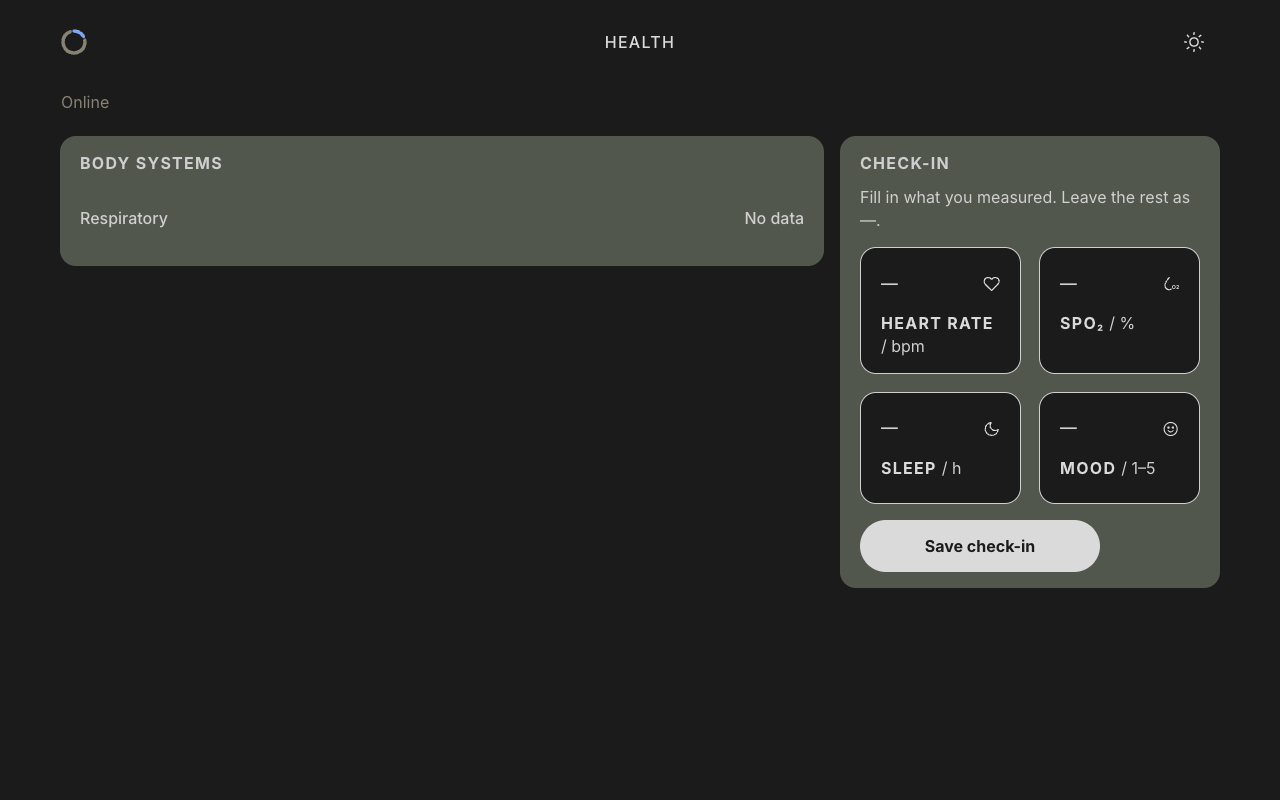
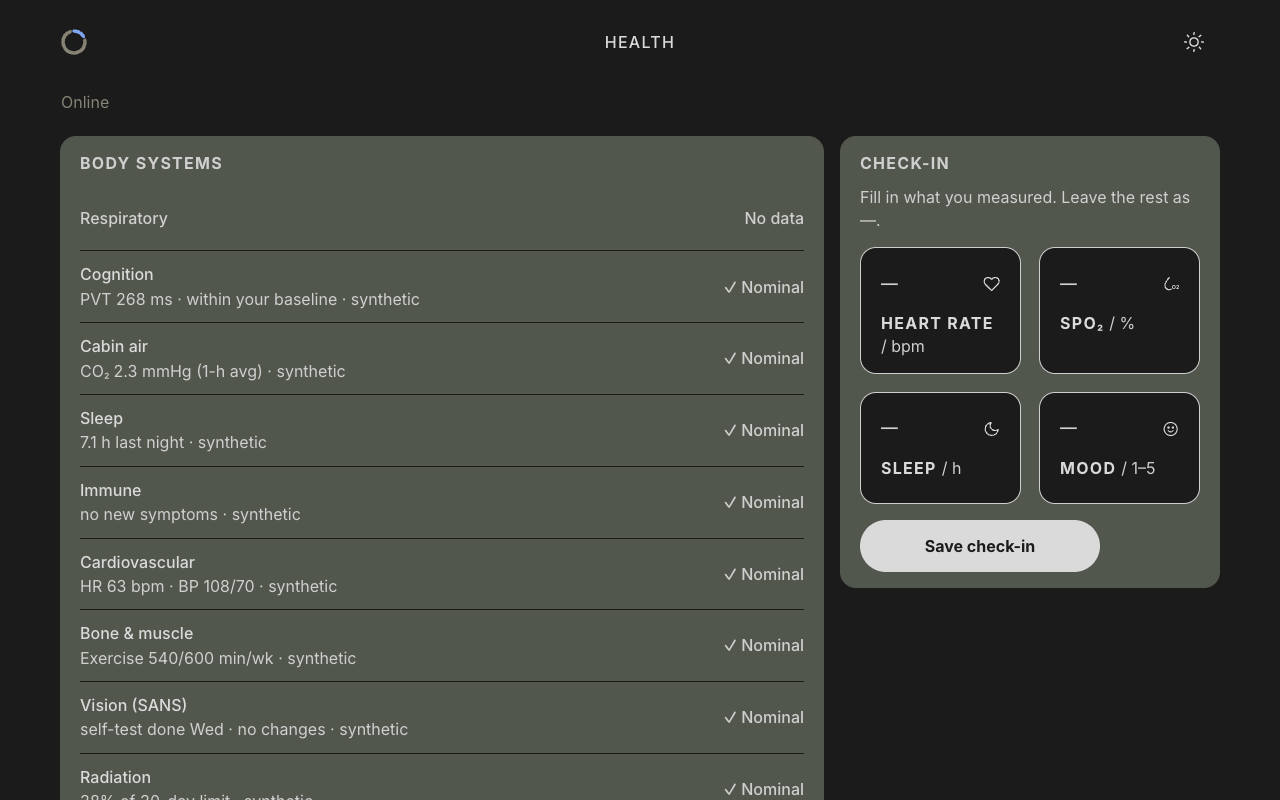
docs(status): feature doc with screenshots, F6 status and placeholder row guideline (#4)
Retakes the #1 screenshots, which now show the full list.

diff --git a/docs/features/4-body-systems-list.md b/docs/features/4-body-systems-list.md
@@ -1,0 +1,31 @@
+# #4 Body systems list: Respiratory plus synthetic placeholders
+
+The "Body systems" card on home lists all ten systems of mockup 01. Respiratory is the only system with rules (SPO-01/02, [#1](1-spo2-core-loop.md)), so it shows real check-in data. The other nine show fixed synthetic values from `src/main/frontend/src/infrastructure/mockStatuses.ts`, always "✓ Nominal", labelled "synthetic", with no data age and no explanation. When a rule row is added for one of those systems, its placeholder disappears and the real status takes its place. Feature F6 in [features.md](../../ideas/features.md); issue [#4](https://github.com/jdo-lv/galagans/issues/4).
+
+**Try it:** `mvn clean verify`, then `mvn spring-boot:run`, open http://localhost:8080, enter an SpO₂ value and click "Save check-in". **Retake the screenshots** with the app running: `target/node/node docs/features/4-body-systems-list.shots.mjs` (script: [4-body-systems-list.shots.mjs](4-body-systems-list.shots.mjs)).
+
+## Screens
+
+### No check-ins yet
+Respiratory shows "No data"; the nine placeholders follow in mockup 01 order.
+![No data](img/4-no-data.png)
+
+### Caution (SpO₂ 92, rule SPO-01)
+Only Respiratory changes; the placeholders stay quiet.
+![Caution](img/4-caution.png)
+
+### Warning (SpO₂ 88, rule SPO-02)
+![Warning](img/4-warning.png)
+
+"Status unavailable" (rules or storage fail to load, so no rows at all, placeholders included) can't be triggered from the running app; it's covered by `SystemStatusList.test.tsx` (AC6).
+
+## Mockup and deviations
+
+The list follows the "Body systems" panel of [01-body-map.png](../../ideas/mockups/01-body-map.png): system name, muted sub line, status on the right. Styles follow [ui-guidelines.md](../../ideas/ui-guidelines.md) "Body-system list" (placeholder row added there).
+
+| Deviation | Reason |
+|---|---|
+| Cognition, Cabin air and Sleep are "✓ Nominal", not CAUTION | A caution must show what / why / how decided / what next, and a placeholder has no rule behind it. The `Placeholder` type only allows nominal. |
+| Values reworded: Cognition "PVT 268 ms · within your baseline", Cabin air "CO₂ 2.3 mmHg (1-h avg)", Sleep "7.1 h last night", Vision "self-test done Wed · no changes" | The mockup's wording describes cautions or missed data, which contradicts a nominal row. CO₂ 2.3 mmHg is the median ISS cabin value ([data-sources.md](../../research/data-sources.md)). |
+| Respiratory row added at the top; no hazard-lens marks or dimming | Respiratory is the system with rules (#1); the hazard lens is a later feature. |
+| No body figure, hazard lens, routine or readings panels | Out of scope for #4. |

diff --git a/docs/features/1-spo2-core-loop.md b/docs/features/1-spo2-core-loop.md
@@ -40,6 +40,6 @@ Layout follows [01-body-map.png](../../ideas/mockups/01-body-map.png) ("Body sys
 | Red WARNING pill, not in the mockups | No mockup shows a warning; style from [ui-guidelines.md](../../ideas/ui-guidelines.md) §5 (status badge). |
 | Header with brand ring, "HEALTH" wordmark and theme toggle instead of the mockup's top bar of context pills | Canvas header from the guidelines; crew, mode and flight-day pills have no data yet. |
 | Text at least 16 px, inputs as field tiles, "Who to involve" as a pill and the rule id as a tag | Guidelines §3–§5 (NASA minimum text height; routing kept neutral and apart from urgency). The mockups use 11–14 px. |
-| One system (Respiratory), no body figure, hazard lens, routine or readings panels | Out of scope for #1. |
+| Only Respiratory has rules; no body figure, hazard lens, routine or readings panels | Out of scope for #1. The nine synthetic rows below Respiratory in these screenshots come from [#4](4-body-systems-list.md). |
 | Explanation inline in the row, not a separate detail screen; tier shown as a value, not the 4-step ladder | The issue puts the texts in the row (AC4, AC6); the detail screen is out of scope. |
 | Check-in form in a right-hand "Check-in" panel with all fields on one screen | No mockup for the current form; 06-questionnaire (one question per screen) is a later feature. Fields use the guidelines' field tile and primary button. |

diff --git a/ideas/features.md b/ideas/features.md
@@ -75,7 +75,7 @@ Each feature has: what it is, why it matters, how it works, an example, what it 
 - **Why:** the challenge suggests a clickable human figure. One glance shows where attention is needed.
 - **How:** NASA display rules: quiet when all is fine; yellow = caution, red = warning, **always with an icon and a word**, never color alone. Each value shows its unit, age and source ("4 min ago · simulated"). Missing data shows as "data 8 d old", never as a health alarm.
 - **Needs:** F4. See mockup [01-body-map.png](mockups/01-body-map.png).
-- **Status:** the "Body systems" list on home shows Respiratory (from SpO₂) as nominal, caution, warning, "No data", or "No recent data" with the data age when the reading is older than 24 h; source label "manual". Missing: the human figure, other systems, hazard lens.
+- **Status:** the "Body systems" list on home shows Respiratory (from SpO₂) as nominal, caution, warning, "No data", or "No recent data" with the data age when the reading is older than 24 h; source label "manual". The other nine systems of mockup 01 show synthetic nominal placeholder values labelled "synthetic" (`infrastructure/mockStatuses.ts`); a system drops its placeholder once a rule covers it. Missing: the human figure, rules for the other systems, hazard lens.
 
 ### Inputs for the demo
 

diff --git a/ideas/ui-guidelines.md b/ideas/ui-guidelines.md
@@ -166,9 +166,10 @@ Brand mark (28 px, not a button) on the left, wordmark "HEALTH" in the centre, i
 - **Icon button:** transparent, 52 px round hit area, icon 22–30 px, `aria-label` required.
 - **Consequential actions** (send packet, delete entry) get confirm or undo. No red buttons: red is a warning, not "dangerous".
 
-### Body-system list (built: issue #1)
+### Body-system list (built: issues #1, #4)
 - **Card:** a `card` with the uppercase `card-heading` "Body systems"; one row per system, rows separated by `--color-divider`.
 - **Row:** system name (weight 500), then a muted line with label, value (`.num`), unit, data age and source ("SpO₂ 96 % · just now · manual"); the status badge on the right. No-data and stale rows mute the system name.
+- **Placeholder row:** a system with no rules yet shows a synthetic value as the muted line `<detail> · synthetic` ("7.1 h last night · synthetic"), always "✓ Nominal", with no data age and no explanation.
 - **Explanation:** for caution and warning only, an inset (`--color-inset`) list of what / why it matters / how decided / what next / who to involve (routing pill) / rule (tag), with uppercase muted terms. Terms sit beside their text from 600 px up and above it on phones.
 
 ### Field tile (forms)
